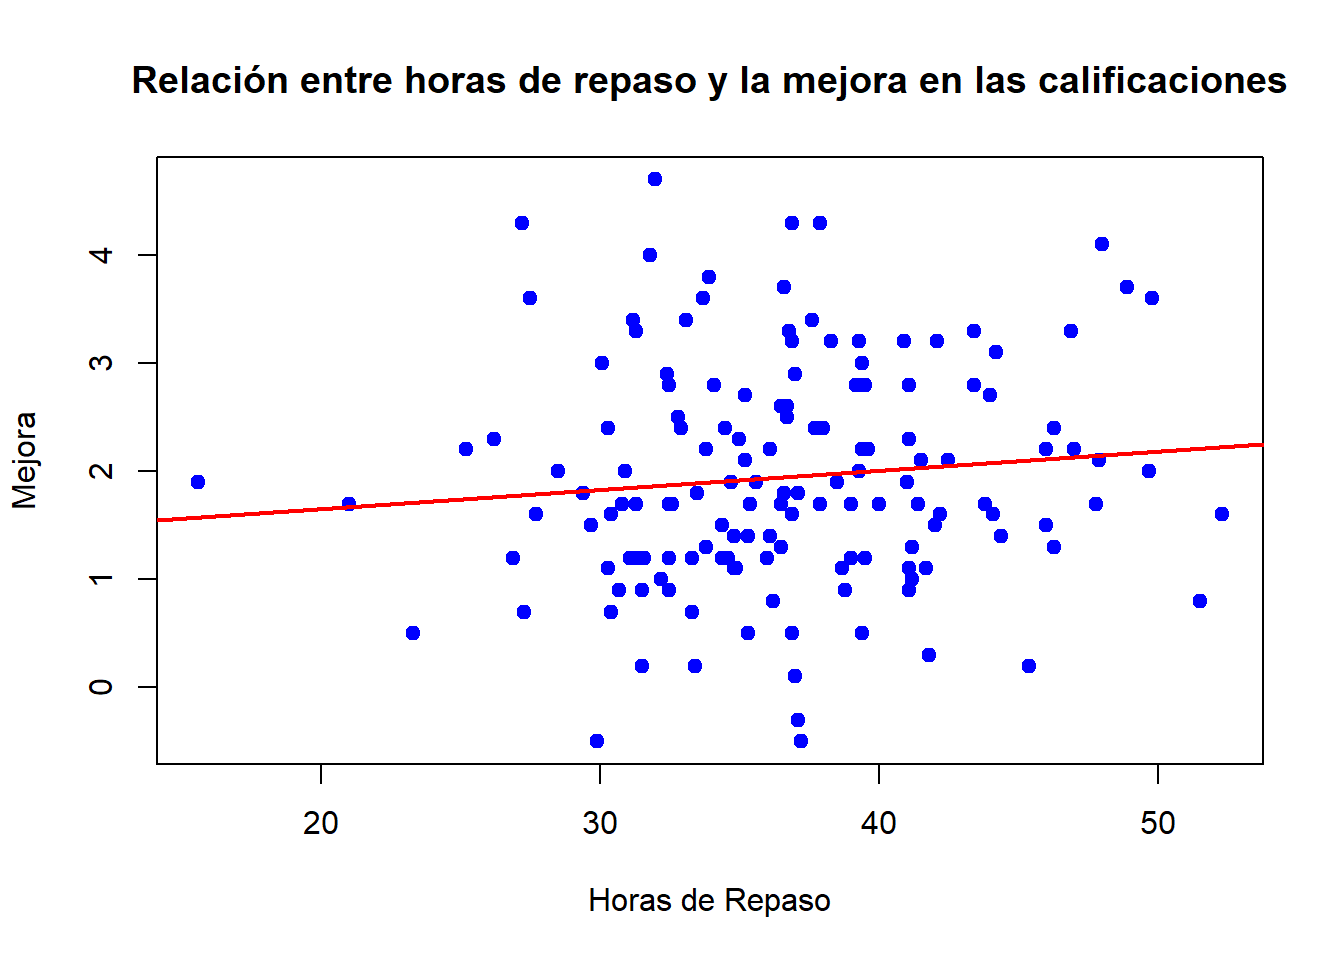
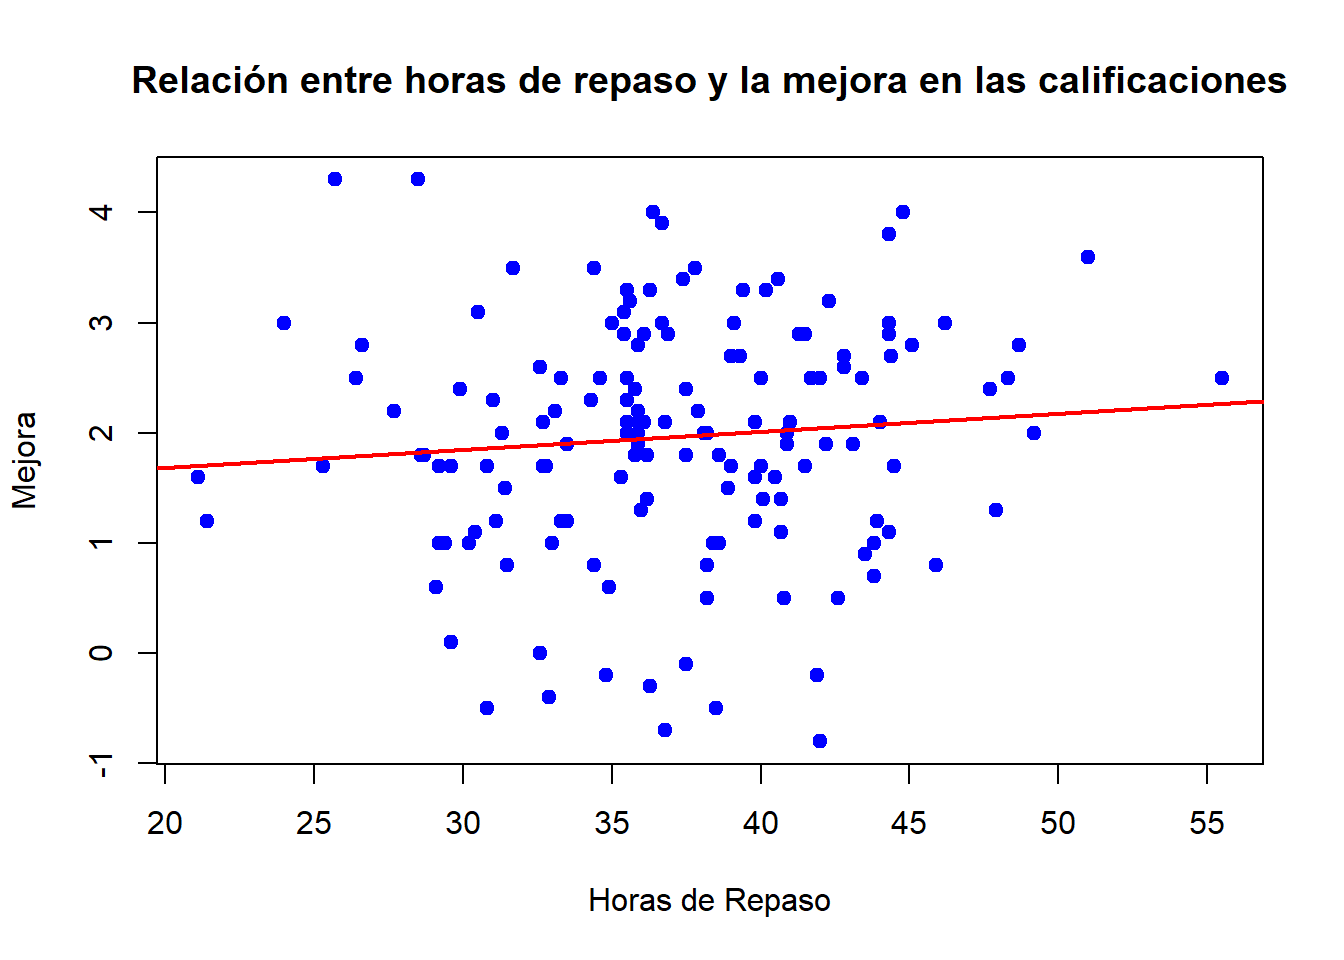
espacios

diff --git a/Enunciado.html b/Enunciado.html
@@ -219,19 +219,19 @@ window.Quarto = {
 <span id="cb2-27"><a href="#cb2-27" aria-hidden="true" tabindex="-1"></a><span class="fu">head</span>(rendimiento_estudiantil)</span></code><button title="Copy to Clipboard" class="code-copy-button"><i class="bi"></i></button></pre></div>
 <div class="cell-output cell-output-stdout">
 <pre><code>  Sexo Curso Horas_repaso_años Estudio_semanal Notas_antes Notas_despues
-1    F  2BAT              51.5             5.8           6           6.8
-2    F  2BAT              30.4             1.4           2           3.6
-3    F  1BAT              37.7             3.0           2           4.4
-4    M  2BAT              31.5             2.8           4           4.9
-5    M  2BAT              36.9             2.7           2           5.2
-6    F  1BAT              46.9             3.8           4           7.3
+1    F  2BAT              42.0             3.9           4           6.5
+2    M  2BAT              42.3             3.5           3           6.2
+3    M  2BAT              36.3             1.3           4           3.7
+4    M  2BAT              38.6             3.4           3           4.0
+5    F  2BAT              35.5             2.6           4           6.0
+6    F  2BAT              29.2             1.7           4           5.0
   Ayuda_repaso Motivación Amppliar_conocimiento
 1         Nada         No                    Si
-2         Nada         No                    No
-3         Nada         Si                    No
-4         Poco         Si                    Si
-5         Poco         Si                    No
-6         Poco         No                    No</code></pre>
+2         Nada         Si                    No
+3         Nada         No                    Si
+4        Mucho         Si                    Si
+5         Nada         No                    No
+6         Nada         Si                    No</code></pre>
 </div>
 </div>
 <p>Para los datos de internet, los he obtenido del link que lleva a la página del ministerio, concretamente, son datos sobre: “Gasto total de los hogares en servicios educativos y gasto medio por hogar según tipo de servicio y tamaño del municipio de residencia”.</p>
@@ -274,13 +274,13 @@ window.Quarto = {
     Pearson's product-moment correlation
 
 data:  df_preg1$Horas_repaso_años and df_preg1$Estudio_semanal
-t = 15.315, df = 148, p-value &lt; 2.2e-16
+t = 14.22, df = 148, p-value &lt; 2.2e-16
 alternative hypothesis: true correlation is not equal to 0
 95 percent confidence interval:
- 0.7121268 0.8381124
+ 0.6827547 0.8202452
 sample estimates:
       cor 
-0.7830245 </code></pre>
+0.7598716 </code></pre>
 </div>
 </div>
 <p>Concluimos que, efectivamente, las horas de repaso incentivan a los alumnos a estudiar en sus casas.</p>
@@ -335,13 +335,13 @@ sample estimates:
     Pearson's product-moment correlation
 
 data:  df_preg3$Horas_repaso_años and df_preg3$Mejora
-t = 1.2934, df = 148, p-value = 0.1979
+t = 1.1039, df = 148, p-value = 0.2714
 alternative hypothesis: true correlation is not equal to 0
 95 percent confidence interval:
- -0.05548075  0.26155087
+ -0.07092149  0.24705079
 sample estimates:
-      cor 
-0.1057208 </code></pre>
+       cor 
+0.09036715 </code></pre>
 </div>
 </div>
 <p>Efectivamente, la correlación es positiva y la pendiente de la recta de regresión también pero debemos de ser cautos a la hora de decir que si son elementos correlacionados ya que no es una correlación muy muy notoria.</p>
@@ -362,13 +362,13 @@ sample estimates:
 <div class="cell-output cell-output-stdout">
 <pre><code>
 Mucho  Nada  Poco 
-   46    47    57 </code></pre>
+   59    44    47 </code></pre>
 </div>
 <div class="sourceCode cell-code" id="cb15"><pre class="sourceCode r code-with-copy"><code class="sourceCode r"><span id="cb15-1"><a href="#cb15-1" aria-hidden="true" tabindex="-1"></a><span class="fu">print</span>(probs)</span></code><button title="Copy to Clipboard" class="code-copy-button"><i class="bi"></i></button></pre></div>
 <div class="cell-output cell-output-stdout">
 <pre><code>
     Mucho      Nada      Poco 
-0.3066667 0.3133333 0.3800000 </code></pre>
+0.3933333 0.2933333 0.3133333 </code></pre>
 </div>
 </div>
 <p>Los parametros en una distribución multinomial son las probabilidades anteriores. Por tanto, los estimadores son 0.3267, 0.3467, 0.3266.</p>
@@ -379,7 +379,7 @@ Mucho  Nada  Poco
 <span id="cb17-4"><a href="#cb17-4" aria-hidden="true" tabindex="-1"></a>probabilidad <span class="ot">&lt;-</span> <span class="fu">dmultinom</span>(subgrupo, <span class="at">size =</span> <span class="dv">20</span>, <span class="at">prob =</span> probs)</span>
 <span id="cb17-5"><a href="#cb17-5" aria-hidden="true" tabindex="-1"></a><span class="fu">print</span>(probabilidad)</span></code><button title="Copy to Clipboard" class="code-copy-button"><i class="bi"></i></button></pre></div>
 <div class="cell-output cell-output-stdout">
-<pre><code>[1] 0.03029318</code></pre>
+<pre><code>[1] 0.03426304</code></pre>
 </div>
 </div>
 <p>La probabilidad es muy baja, es decir, no podemos afirmar la hipótesis del enunciado.</p>
@@ -406,38 +406,38 @@ lm(formula = rendimiento_estudiantil$Notas_despues ~ rendimiento_estudiantil$Not
 
 Residuals:
      Min       1Q   Median       3Q      Max 
--2.26818 -0.62786  0.01723  0.57547  2.42364 
+-3.01078 -0.49793 -0.00972  0.64519  1.93365 
 
 Coefficients:
                                           Estimate Std. Error t value Pr(&gt;|t|)
-(Intercept)                                1.85227    0.54201   3.417 0.000819
-rendimiento_estudiantil$Notas_antes        0.53056    0.07117   7.454 7.35e-12
-rendimiento_estudiantil$Horas_repaso_años  0.04389    0.02039   2.153 0.032988
-rendimiento_estudiantil$Estudio_semanal    0.11929    0.09526   1.252 0.212492
+(Intercept)                                3.30493    0.56937   5.805 3.87e-08
+rendimiento_estudiantil$Notas_antes        0.51217    0.07942   6.449 1.55e-09
+rendimiento_estudiantil$Horas_repaso_años -0.02374    0.01979  -1.199    0.232
+rendimiento_estudiantil$Estudio_semanal    0.48174    0.10415   4.625 8.17e-06
                                              
 (Intercept)                               ***
 rendimiento_estudiantil$Notas_antes       ***
-rendimiento_estudiantil$Horas_repaso_años *  
-rendimiento_estudiantil$Estudio_semanal      
+rendimiento_estudiantil$Horas_repaso_años    
+rendimiento_estudiantil$Estudio_semanal   ***
 ---
 Signif. codes:  0 '***' 0.001 '**' 0.01 '*' 0.05 '.' 0.1 ' ' 1
 
-Residual standard error: 0.9119 on 146 degrees of freedom
-Multiple R-squared:  0.5018,    Adjusted R-squared:  0.4916 
-F-statistic: 49.02 on 3 and 146 DF,  p-value: &lt; 2.2e-16</code></pre>
+Residual standard error: 0.9247 on 146 degrees of freedom
+Multiple R-squared:  0.447, Adjusted R-squared:  0.4357 
+F-statistic: 39.35 on 3 and 146 DF,  p-value: &lt; 2.2e-16</code></pre>
 </div>
 <div class="sourceCode cell-code" id="cb21"><pre class="sourceCode r code-with-copy"><code class="sourceCode r"><span id="cb21-1"><a href="#cb21-1" aria-hidden="true" tabindex="-1"></a>predicciones <span class="ot">&lt;-</span> <span class="fu">predict</span>(modelo, rendimiento_estudiantil)</span>
 <span id="cb21-2"><a href="#cb21-2" aria-hidden="true" tabindex="-1"></a>ECM <span class="ot">&lt;-</span> <span class="fu">mean</span>((rendimiento_estudiantil<span class="sc">$</span>Notas_despues <span class="sc">-</span> predicciones)<span class="sc">^</span><span class="dv">2</span>) <span class="co">#Error cuadratico medio</span></span>
 <span id="cb21-3"><a href="#cb21-3" aria-hidden="true" tabindex="-1"></a><span class="fu">print</span>(<span class="fu">paste</span>(<span class="st">"Error Cuadrático Medio:"</span>, ECM))</span></code><button title="Copy to Clipboard" class="code-copy-button"><i class="bi"></i></button></pre></div>
 <div class="cell-output cell-output-stdout">
-<pre><code>[1] "Error Cuadrático Medio: 0.809389079538292"</code></pre>
+<pre><code>[1] "Error Cuadrático Medio: 0.832211152692605"</code></pre>
 </div>
 </div>
 <p>Antes de interpretar el ECM, debemos calcular la varianza y ver si el error cuadrático medio es mucho menor que esta</p>
 <div class="cell">
 <div class="sourceCode cell-code" id="cb23"><pre class="sourceCode r code-with-copy"><code class="sourceCode r"><span id="cb23-1"><a href="#cb23-1" aria-hidden="true" tabindex="-1"></a><span class="dv">149</span><span class="sc">/</span><span class="dv">150</span><span class="sc">*</span><span class="fu">var</span>(rendimiento_estudiantil<span class="sc">$</span>Notas_despues)</span></code><button title="Copy to Clipboard" class="code-copy-button"><i class="bi"></i></button></pre></div>
 <div class="cell-output cell-output-stdout">
-<pre><code>[1] 1.624667</code></pre>
+<pre><code>[1] 1.505033</code></pre>
 </div>
 </div>
 <p>En este caso, el ECM es casi la mitad de la varianza, por tanto es demasiado alto, esto nos dice que puede haber errores en nuestra predicción.</p>
@@ -464,10 +464,10 @@ F-statistic: 49.02 on 3 and 146 DF,  p-value: &lt; 2.2e-16</code></pre>
 <span id="cb27-4"><a href="#cb27-4" aria-hidden="true" tabindex="-1"></a></span>
 <span id="cb27-5"><a href="#cb27-5" aria-hidden="true" tabindex="-1"></a><span class="fu">print</span>(<span class="fu">hotelling.test</span>(grupo_NO, grupo_SI))</span></code><button title="Copy to Clipboard" class="code-copy-button"><i class="bi"></i></button></pre></div>
 <div class="cell-output cell-output-stdout">
-<pre><code>Test stat:  0.47158 
+<pre><code>Test stat:  0.040331 
 Numerator df:  1 
 Denominator df:  148 
-P-value:  0.4933 </code></pre>
+P-value:  0.8411 </code></pre>
 </div>
 </div>
 <p>Notamos que, segun el p-valor que hemos obtenido, aceptamos la hipótesis nula, es decir, la media de las calificaciones de los alumnos que creen que han ampliado su conocimiento es igual a las de los que creen que no. Tendemos a pensar que ampliar conocimientos en una asignatura es directamente proporcional a sacar buenas calificaciones en esta. En este caso se muestra como la gente puede pensar que no se amplian sus conocimientos pero si sacan mejores calificaciones.</p>
